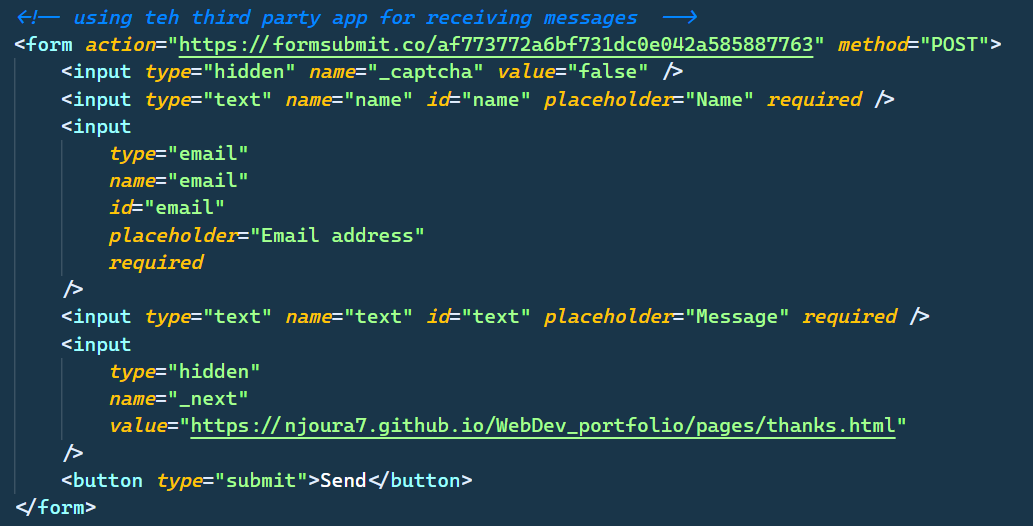
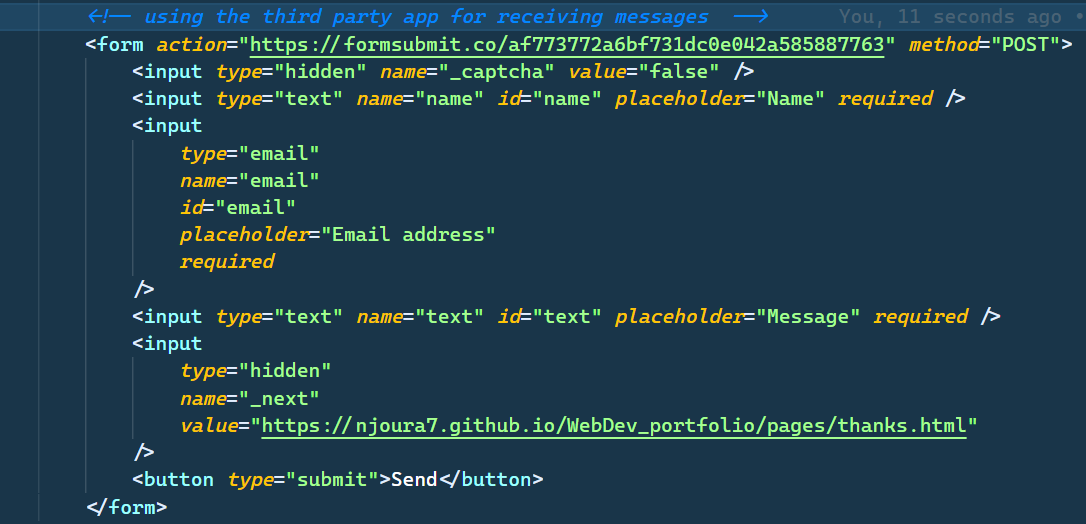
url fixed 2

Changed region(s): [[0.0, 0.0, 1.0, 0.855], [0.0, 0.855, 0.4956, 0.9771]]

diff --git a/index_Anas_Mohamed_Aziz_Najjar.html b/index_Anas_Mohamed_Aziz_Najjar.html
@@ -43,7 +43,6 @@
             </div>
         </header>
         <main>
-            <!-- <h1>Hello, My name is Aziz Najjar and this is my project for web development</h1> -->
             <section id="country" class="country">
                 <h2>My country</h2>
                 <div class="img-country-container">
@@ -140,10 +139,29 @@
                     <h4>then everything is generated automatically into a big css file</h4>
                     <img src="./images/css.PNG" alt="css" />
                 </article>
+                <article>
+                    <h4>
+                        custom properties & variables present a good solution for making the code
+                        more scalable and customizable
+                    </h4>
+                    <img src="./images/custom-prop1.PNG" alt="custom-prop" />
+                    <img src="./images/variables.PNG" alt="" />
+                </article>
+                <article>
+                    <h4>Animations just add some fun to the page</h4>
+                    <img src="./images/animations.PNG" alt="" />
+                </article>
+                <article>
+                    <h4>
+                        I used a third party website for receiving the messages and I hosted the
+                        website on <a href="https://njoura7.github.io/WebDev_Portfolio/"> gitHub</a>
+                    </h4>
+                    <img src="./images/form.PNG" alt="form" />
+                </article>
             </section>
             <section id="contact-me" class="contact-me">
                 <h2>Contact me</h2>
-                <!-- using teh third party app for receiving messages  -->
+                <!-- using the third party app for receiving messages  -->
                 <form action="https://formsubmit.co/af773772a6bf731dc0e042a585887763" method="POST">
                     <input type="hidden" name="_captcha" value="false" />
                     <input type="text" name="name" id="name" placeholder="Name" required />
@@ -158,7 +176,7 @@
                     <input
                         type="hidden"
                         name="_next"
-                        value="https://njoura7.github.io/WebDev_portfolio/pages/thanks.html"
+                        value="https://njoura7.github.io/WebDev_Portfolio/pages/thanks.html"
                     />
                     <button type="submit">Send</button>
                 </form>

diff --git a/js/navLinks.js b/js/navLinks.js
@@ -13,7 +13,7 @@ navLinks.forEach((link) => {
             if (link.style.animation) {
                 link.style.animation = "";
             } else {
-                link.style.animation = `navLinksFade 0.5s ease forwards ${index / 7 + 0.3}s`;
+                link.style.animation = `navLinksFade 0.5s ease  ${index / 7 + 0.3}s`;
             }
         });
         //*burger animation

diff --git a/scss/_utilities.scss b/scss/_utilities.scss
@@ -75,9 +75,17 @@
     }
 }
 .built-project {
+    display: flex;
+    flex-direction: column;
+    align-items: center;
+    justify-content: center;
     h4 {
         font-size: 1.25rem;
         margin: 1.5rem;
+    }
+    img {
+        border-radius: 1rem;
+        margin: 1rem;
     }
 }
 .contact-me {

diff --git a/css/main.css b/css/main.css
@@ -360,9 +360,19 @@ p {
   gap: 1rem;
 }
 
+.built-project {
+  display: flex;
+  flex-direction: column;
+  align-items: center;
+  justify-content: center;
+}
 .built-project h4 {
   font-size: 1.25rem;
   margin: 1.5rem;
+}
+.built-project img {
+  border-radius: 1rem;
+  margin: 1rem;
 }
 
 .contact-me {

diff --git a/pages/thanks.html b/pages/thanks.html
@@ -79,7 +79,7 @@
 	<body>
 		<div>
 			<h1>Thank you!! your message was sent</h1>
-			<a href="https://njoura7.github.io/WebDev_portfolio"><button>Back</button></a>
+			<a href="https://njoura7.github.io/WebDev_Portfolio/"><button>Back</button></a>
 		
 	</body>
 </html>
